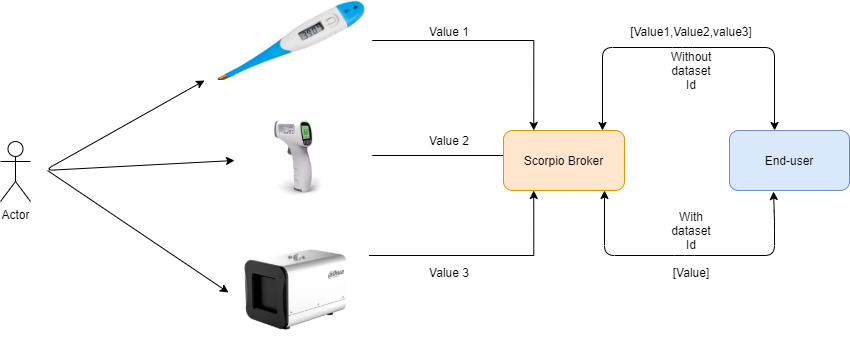
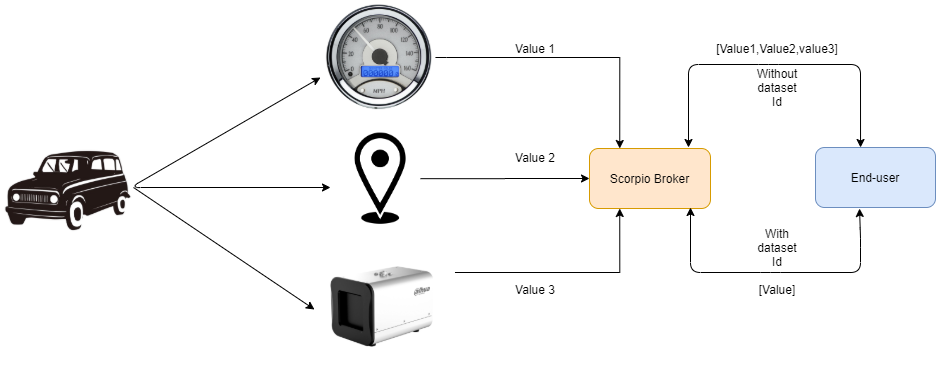
issue-80- change in multivalue use case diagram and payload

diff --git a/docs/en/source/multivalue.rst b/docs/en/source/multivalue.rst
@@ -33,7 +33,7 @@ In order to create the entity with the multi-value attribute, we can hit the end
 .. code-block:: JSON
 
  {
-  "id":"urn:ngsi-ld:Vehicle:A101",
+  "id":"urn:ngsi-ld:Vehicle:A135",
   "type":"Vehicle",
   "brandName":{
     "type":"Property",
@@ -48,30 +48,25 @@ In order to create the entity with the multi-value attribute, we can hit the end
       "value": "Speedometer"
     }
   },
-  {
+   {
     "type":"Property",
-    "value": 60,
+    "value": 11,
+     "datasetId": "urn:ngsi-ld:Property:speedometerA4567-speed111",
     "source":{
       "type":"Property",
       "value": "GPS"
     }
-  },
-  {
+    },
+    {
     "type":"Property",
-    "value": 52.5,
-    "datasetId": "urn:ngsi-ld:Property1111-speed",
+    "value": 10,
     "source":{
       "type":"Property",
-      "value": "GPS_NEW"
+      "value": "GPS"
     }
-  }],
-  "createdAt":"2017-07-29T12:00:04Z",
-  "modifiedAt" : "2017-07-29T12:00:04Z",
-  "location":{
-    "type":"GeoProperty",
-    "value":"{ \"type\":\"Point\", \"coordinates\":[ -8.5, 41.2 ] }"
-  }    
+  }]
  }
+
 
 2. Update Operation
 ======================
@@ -82,9 +77,10 @@ In order to create the entity with the multi-value attribute, we can hit the end
 .. code-block:: JSON
 
  {
-   "value":"20",
-   "datasetId": "urn:ngsi-ld:Property:speedometerA4567-speed"
- }  
+      "value":"27",
+      "datasetId":"urn:ngsi-ld:Property:speedometerA4567-speed"
+ }
+  
 
 - **Update the default attribute instance value based on attribute name**
 
@@ -93,7 +89,7 @@ In order to create the entity with the multi-value attribute, we can hit the end
 .. code-block:: JSON
 
  {
-   "value":"21"
+   "value":"27"
  }
 
 3. Delete Operation
